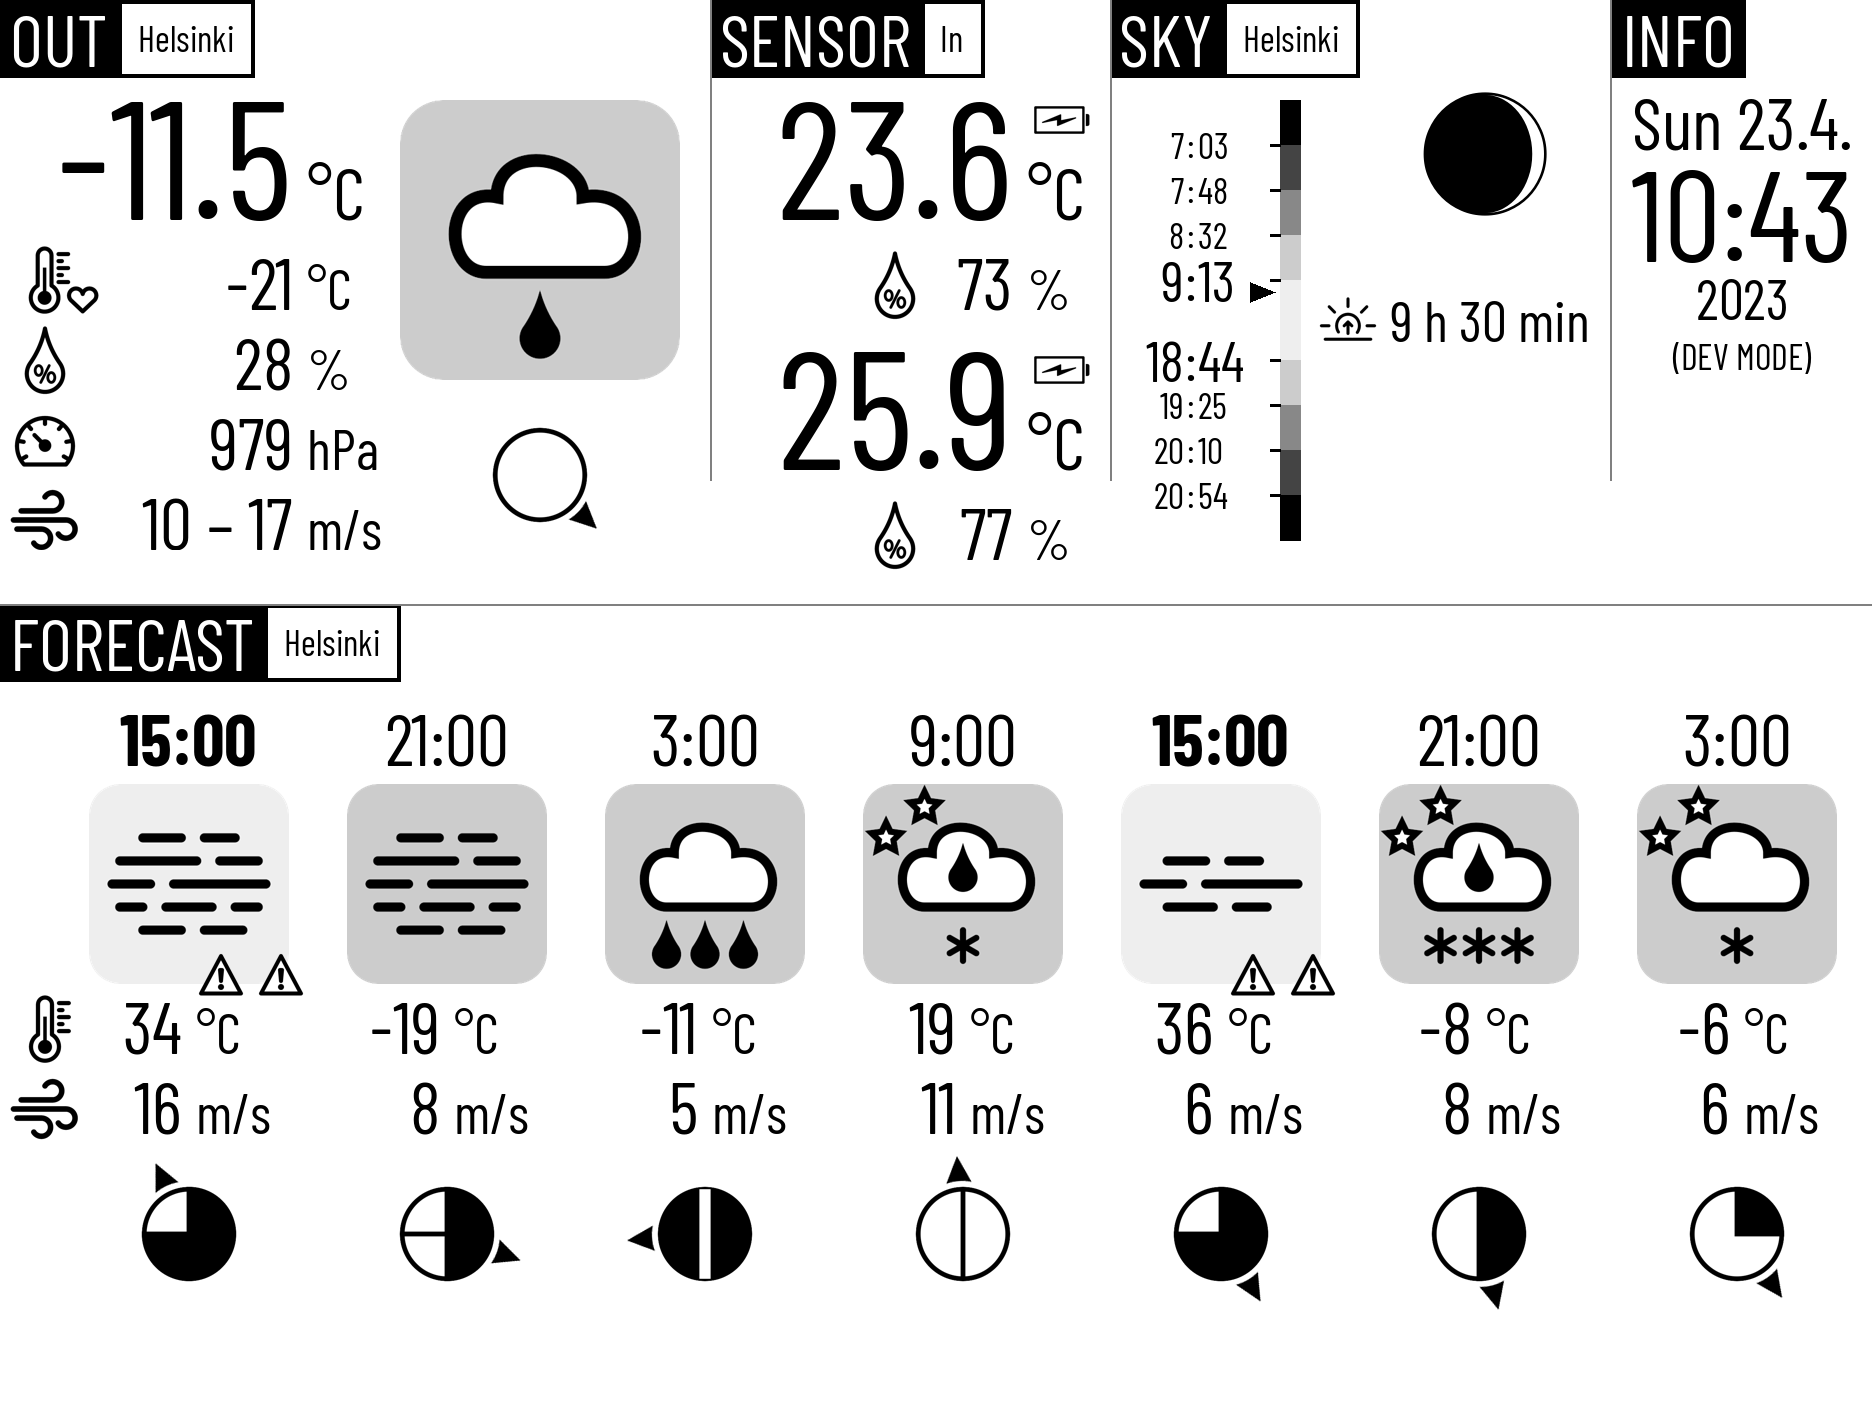
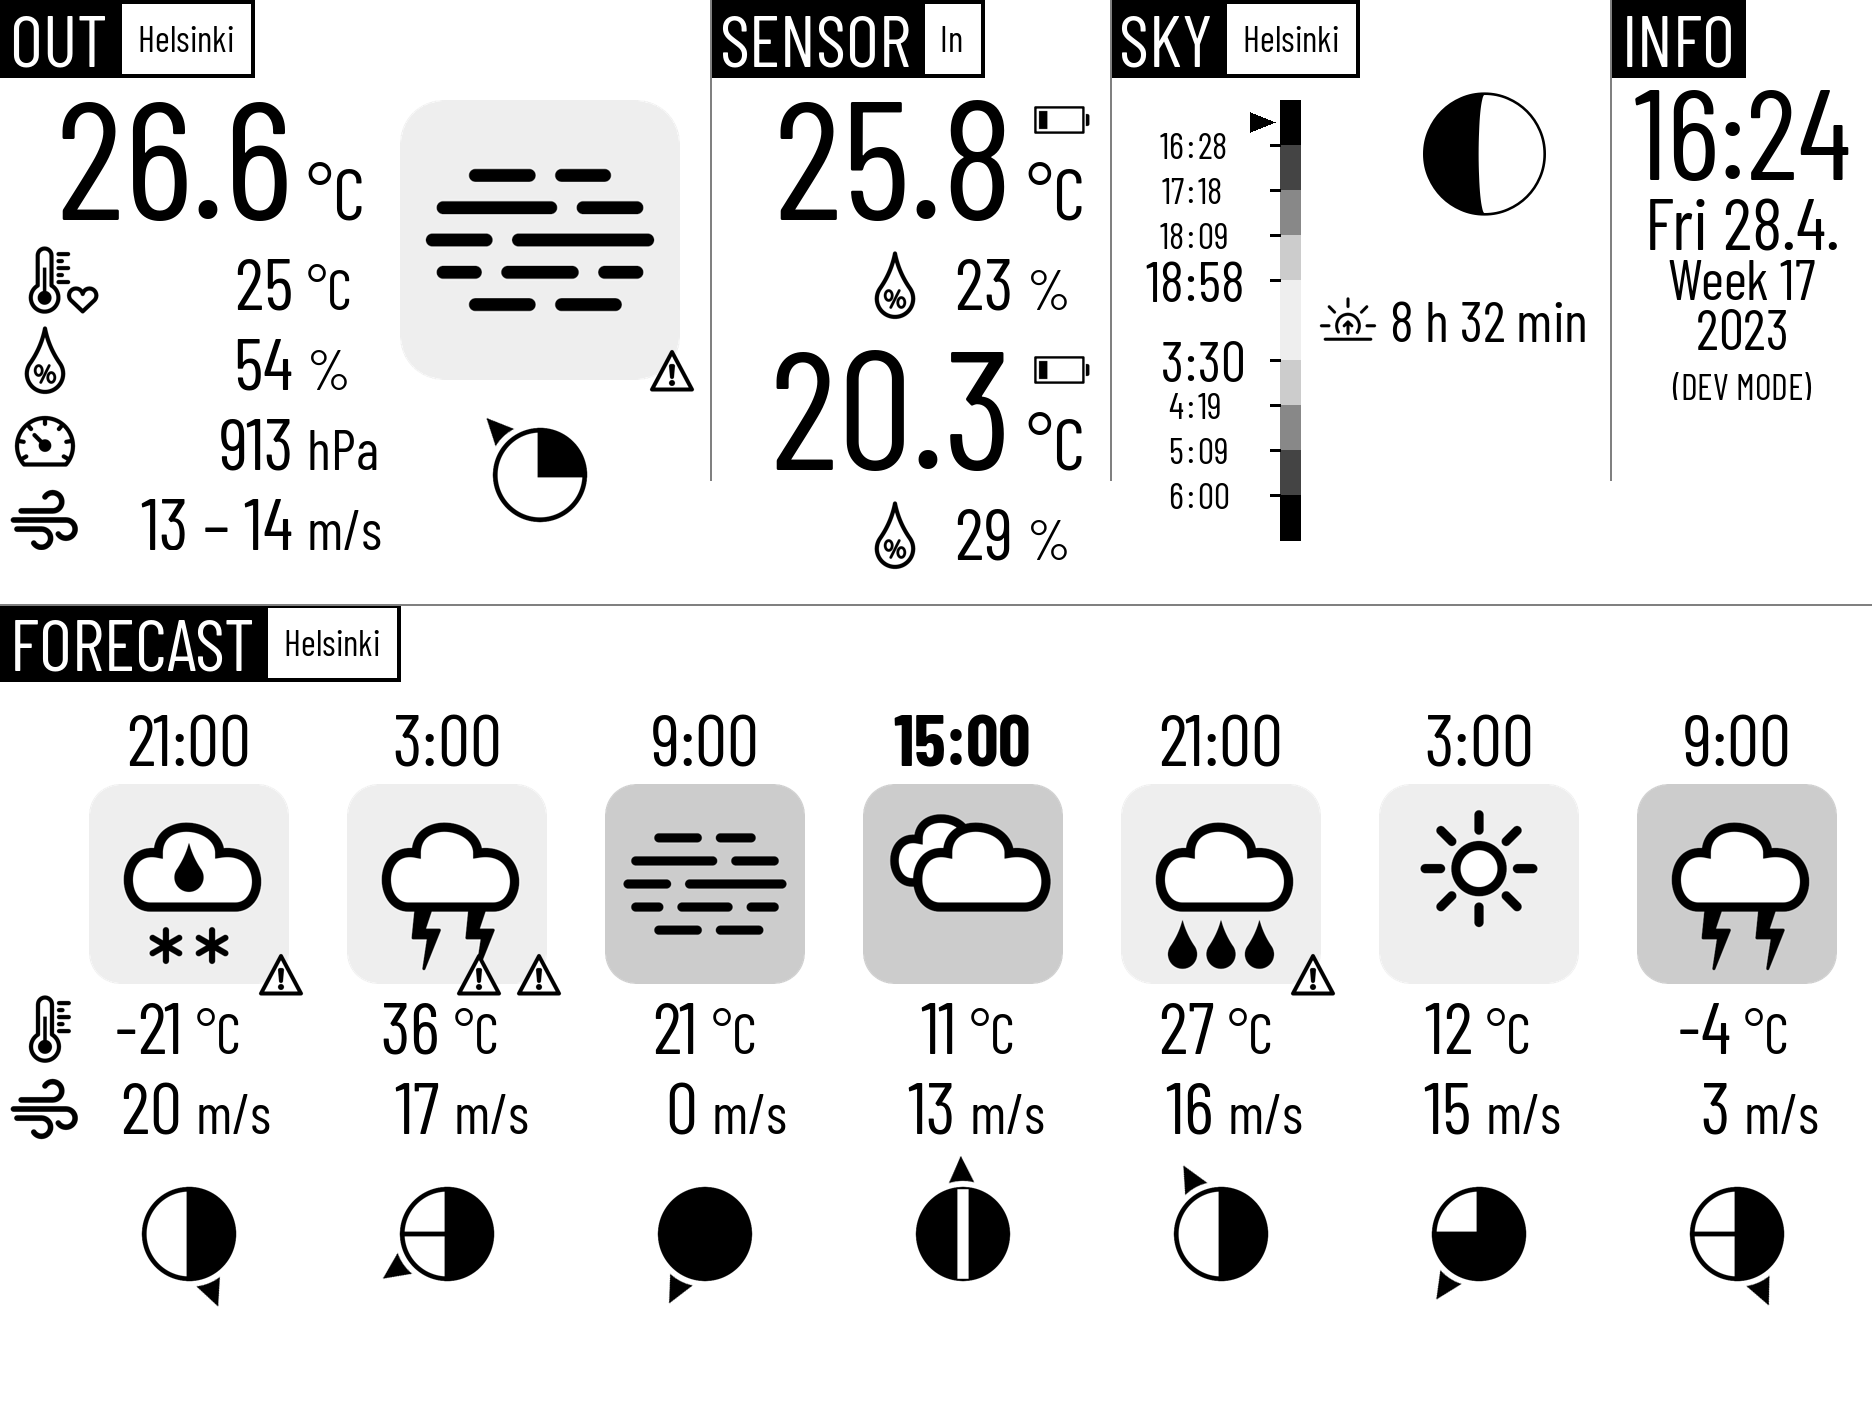
Show week number

diff --git a/eInk-weather-display/info_panel.py b/eInk-weather-display/info_panel.py
@@ -15,12 +15,13 @@ def get_info_panel(fonts: Fonts, config: SectionProxy) -> Image.Image:
   draw = ImageDraw.Draw(image)
   utils.draw_title(draw, fonts['font_sm'], 'INFO', None, fonts['font_xxs'])
 
-  draw.text((x_size//2, 150), f'{time.strftime("%a %-d.%-m.")}', fill="black", font=fonts['font_sm'], anchor='ms')
-  draw.text((x_size//2, 170), f'{time.strftime("%-H:%M")}', fill="black", font=fonts['font_md'], anchor='mt')
-  draw.text((x_size//2, 320), f'{time.strftime("%Y")}', fill="black", font=fonts['font_xs'], anchor='ms')
+  draw.text((x_size//2, 90), f'{time.strftime("%-H:%M")}', fill="black", font=fonts['font_md'], anchor='mt')
+  draw.text((x_size//2, 250), f'{time.strftime("%a %-d.%-m.")}', fill="black", font=fonts['font_sm'], anchor='ms')
+  draw.text((x_size//2, 300), f'{time.strftime("Week %W")}', fill="black", font=fonts['font_xs'], anchor='ms')
+  draw.text((x_size//2, 350), f'{time.strftime("%Y")}', fill="black", font=fonts['font_xs'], anchor='ms')
 
   if (config.getboolean('DEV_MODE')):
-    draw.text((x_size//2, 370), '(DEV MODE)', fill="black", font=fonts['font_xxs'], anchor='ms')
+    draw.text((x_size//2, 400), '(DEV MODE)', fill="black", font=fonts['font_xxs'], anchor='ms')
 
   # Borders
   if (config.getboolean('DRAW_PANEL_BORDERS')):
